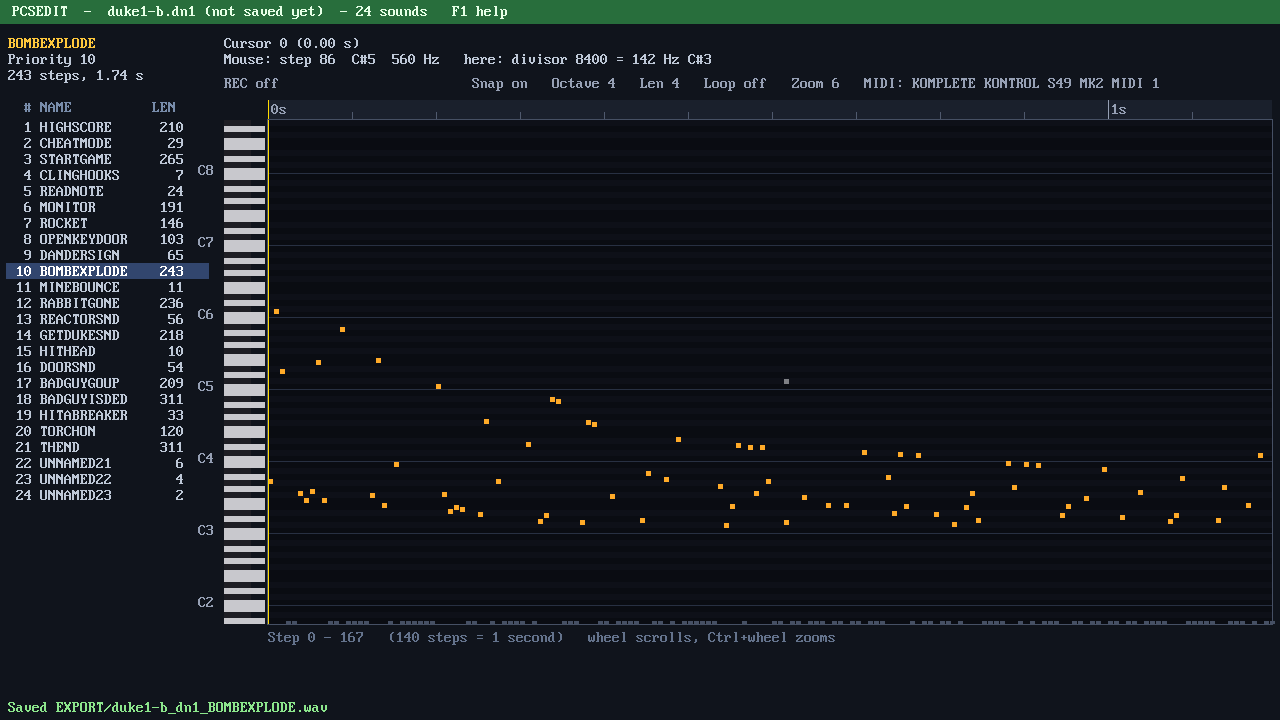
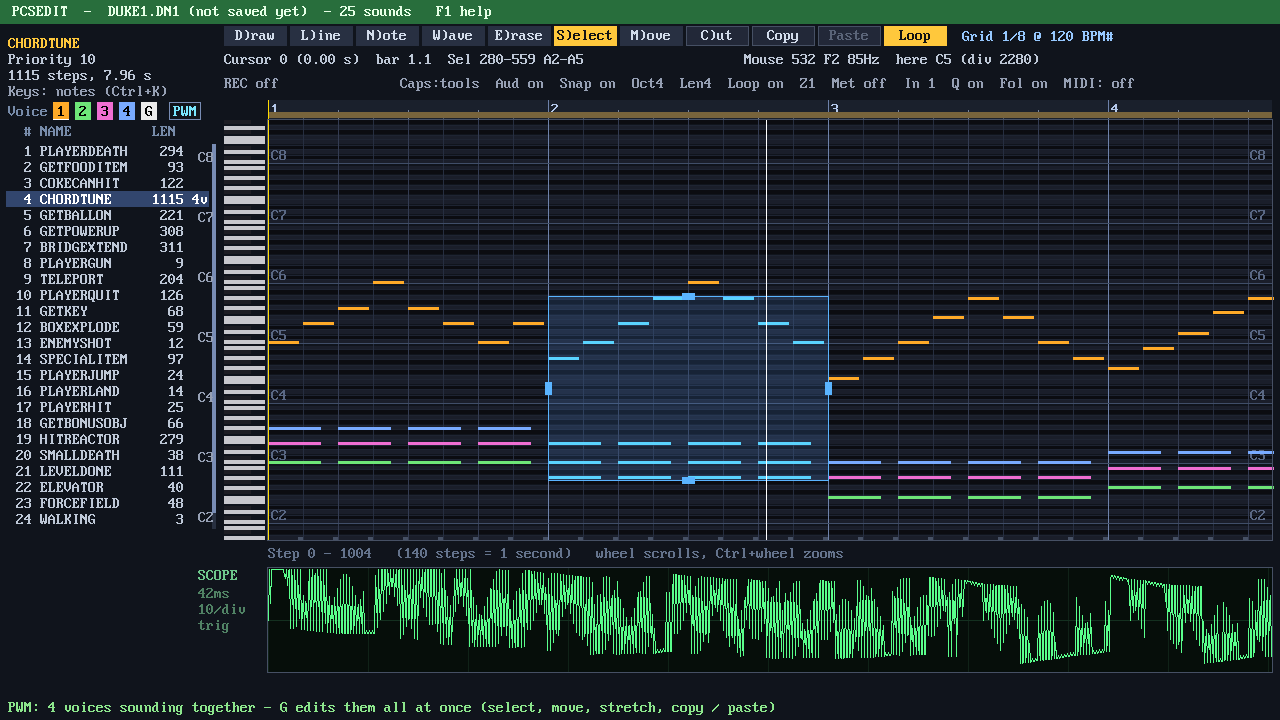
SOUND/PC-SPEAKER: new PCSEDIT screenshot
A four-voice chord tune playing with PWM: voice chips with G, the grid, a
selection across voices, the loop region and the oscilloscope.

diff --git a/qb64/SOUND/PC-SPEAKER/README.md b/qb64/SOUND/PC-SPEAKER/README.md
@@ -76,7 +76,7 @@ the computer keyboard or a MIDI keyboard. It saves IFS banks (the Duke Nukem 1
 file from [Supported games](#supported-games), so you can take a sound from
 Wolfenstein 3D or DOOM, change it, and save it as your own.
 
-![PCSEDIT editing the Duke Nukem 1 BOMBEXPLODE sound](SCREENSHOTS/6-pcsedit.png)
+![PCSEDIT playing a four-voice chord tune with PWM, in the Duke Nukem 1 bank: voice chips with G on, the 1/8 grid, a selection across all voices, the loop region and the oscilloscope](SCREENSHOTS/6-pcsedit.png)
 
 **Tools:** the big panel is a piano roll, with pitch going up and time going
 right. The toolbar above it picks a tool. Click a button, press its letter
